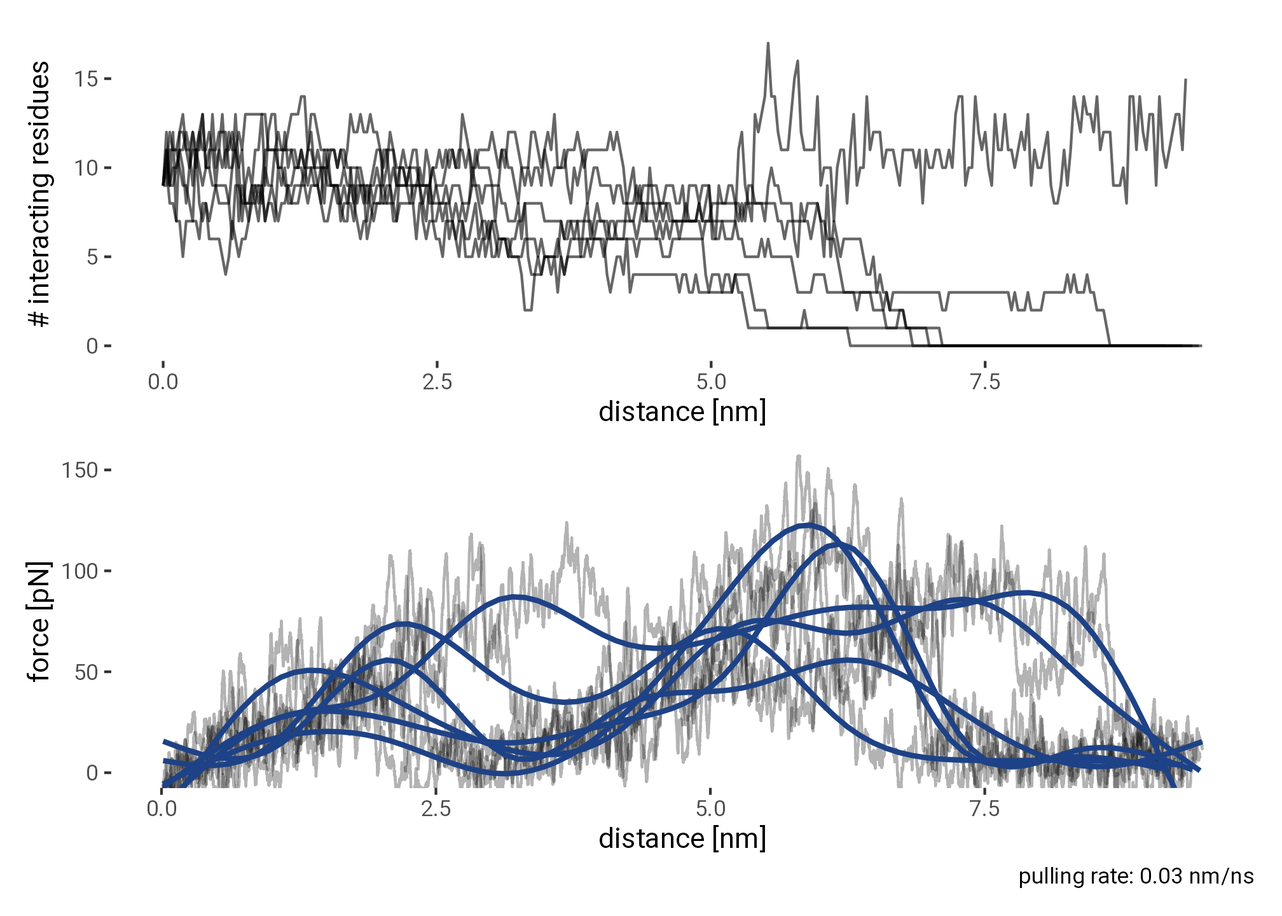
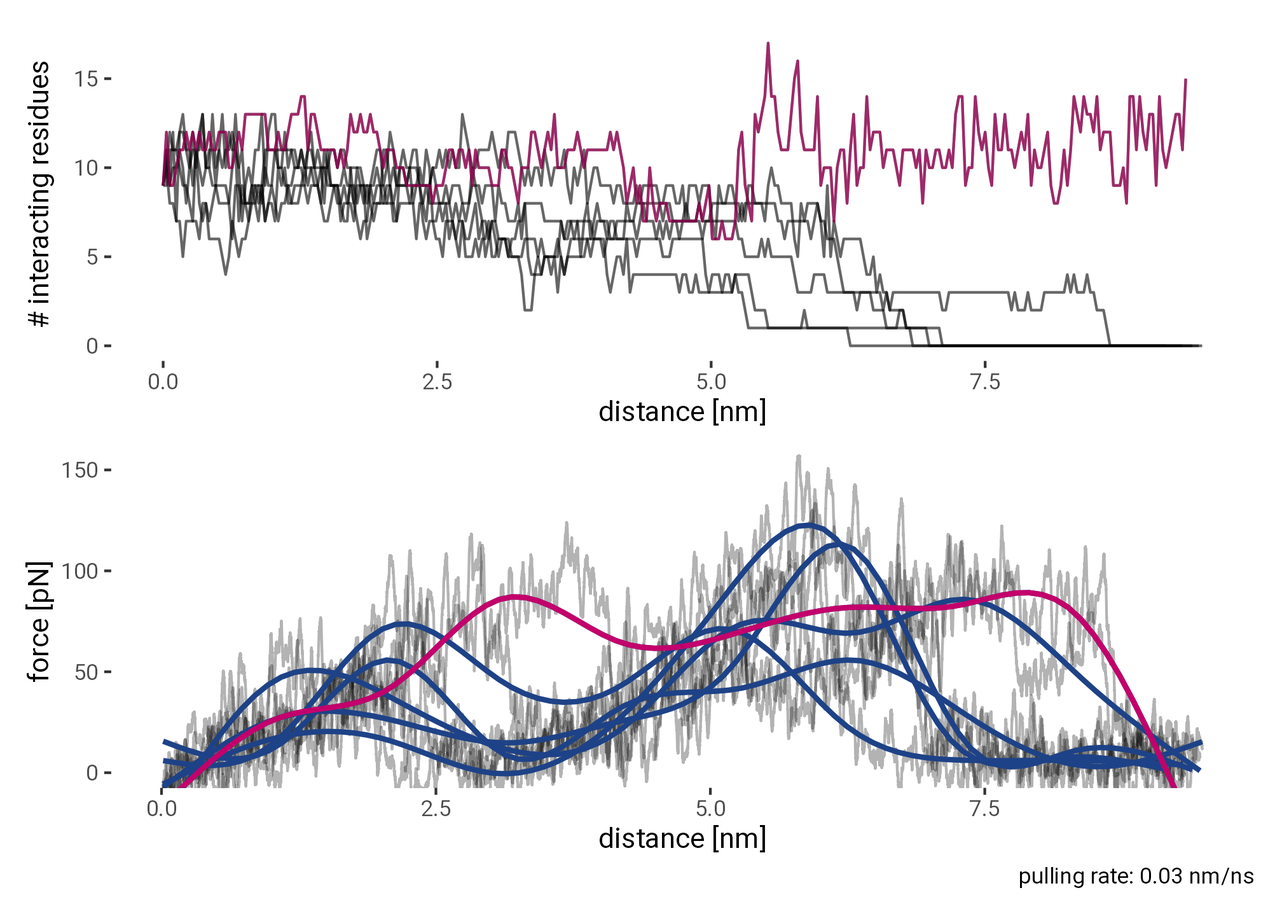
update figures and fix typos

diff --git a/index.html b/index.html
@@ -9,7 +9,7 @@
 <meta name="author" content="Jannik Buhr">
 <meta name="author" content="Florian Franz">
 <meta name="author" content="Frauke Gräter">
-<meta name="dcterms.date" content="2022-06-23">
+<meta name="dcterms.date" content="2022-06-24">
 <meta name="keywords" content="molecular dynamics, Talin, Focal Adhesion, Mechanosensing">
 
 <title>Intrinsically disordered region of Talin’s FERM domain functions as an initial PIP2 recognition site</title>
@@ -219,7 +219,7 @@ div.csl-indent {
     <div>
     <div class="quarto-title-meta-heading">Published</div>
     <div class="quarto-title-meta-contents">
-      <p class="date">June 23, 2022</p>
+      <p class="date">June 24, 2022</p>
     </div>
   </div>
     
@@ -264,13 +264,13 @@ Tip
 <h1>Introduction</h1>
 <p>It is critical for cells to mechanically sense their surroundings at cell adhesion sites for a multitude of biological processes. Contact with the extracellular matrix and surrounding cells regulates growth, differentiation, motility and even apoptosis <span class="citation" data-cites="vogelLocalForceGeometry2006 oakesStressingLimitsFocal2014 schillerMechanosensitivityCompositionalDynamics2013 miroshnikovaAdhesionForcesCortical2018">(<a href="#ref-vogelLocalForceGeometry2006" role="doc-biblioref">1</a>–<a href="#ref-miroshnikovaAdhesionForcesCortical2018" role="doc-biblioref">4</a>)</span>. The multiprotein focal adhesion complex is responsible for translating between biochemical and mechanical signals, where both directions, outside–in and inside–out activation, are being investigated <span class="citation" data-cites="thamilselvanPressureActivatesColon2004 pelletierActivationStateIntegrin1995">(<a href="#ref-thamilselvanPressureActivatesColon2004" role="doc-biblioref">5</a>, <a href="#ref-pelletierActivationStateIntegrin1995" role="doc-biblioref">6</a>)</span>.</p>
 <p>At the center of the focal adhesion complex sits the adaptor protein talin, which dynamically unfolds and refolds under force <span class="citation" data-cites="yaoMechanicalResponseTalin2016">(<a href="#ref-yaoMechanicalResponseTalin2016" role="doc-biblioref">7</a>)</span>. A schematic of Talin can be seen in <a href="#fig-tln-schema-long">Figure&nbsp;1 (a)</a>. Through interaction with integrin tails (dark green) <span class="citation" data-cites="tadokoroTalinBindingIntegrin2003">(<a href="#ref-tadokoroTalinBindingIntegrin2003" role="doc-biblioref">8</a>)</span>, which in turn interact with collagen fibers via their heads, it links the extracellular matrix to the intracellular cytoskeleton by directly interacting with actin. Talin also features specific interactions with the membrane. Their formation, mechanical stability and role in mechanosensing remain to be fully resolved.</p>
-<p>Talin features an N-terminal FERM domain (F for 4.1 protein, E for ezrin, R for radixin and M for moesin), which is composed of subdomains F0 to F3 and provides the link to the cystosolic side of the plasma membrane <span class="citation" data-cites="chishtiFERMDomainUnique1998">(<a href="#ref-chishtiFERMDomainUnique1998" role="doc-biblioref">9</a>)</span>. It does so via a conserved binding motif for phosphatidylinositol 4,5-bisphosphate (PIP<sub>2</sub>), which is enriched at active focal adhesion sites <span class="citation" data-cites="maniFERMDomainPhosphoinositide2011 dasMolecularMechanotransductionPathway2015 songNovelMembranedependentSwitch2012a">(<a href="#ref-maniFERMDomainPhosphoinositide2011" role="doc-biblioref">10</a>–<a href="#ref-songNovelMembranedependentSwitch2012a" role="doc-biblioref">12</a>)</span>. The main PIP<sub>2</sub> binding sites are located in F2 and F3 (highlighted as red spheres in <a href="#fig-tln-schema-long">Figure&nbsp;1 (a)</a>). Notably, the Talin1 FERM domain differs from other FERM proteins through the addition of the F0 subdomain, which is connected to F1 via a charged interface, as well as an insertion in F1, a flexible loop with helical propensity and basic residues <span class="citation" data-cites="goultStructureDoubleUbiquitinlike2010">(<a href="#ref-goultStructureDoubleUbiquitinlike2010" role="doc-biblioref">13</a>)</span>.</p>
+<p>Talin features an N-terminal FERM domain (F for 4.1 protein, E for ezrin, R for radixin and M for moesin), which is composed of the subdomains F0 to F3 and provides a link to the cystosolic side of the plasma membrane <span class="citation" data-cites="chishtiFERMDomainUnique1998">(<a href="#ref-chishtiFERMDomainUnique1998" role="doc-biblioref">9</a>)</span>. It does so via a conserved binding motif for phosphatidylinositol 4,5-bisphosphate (PIP<sub>2</sub>), which is enriched at active focal adhesion sites <span class="citation" data-cites="maniFERMDomainPhosphoinositide2011 dasMolecularMechanotransductionPathway2015 songNovelMembranedependentSwitch2012a">(<a href="#ref-maniFERMDomainPhosphoinositide2011" role="doc-biblioref">10</a>–<a href="#ref-songNovelMembranedependentSwitch2012a" role="doc-biblioref">12</a>)</span>. The main PIP<sub>2</sub> binding sites are located in F2 and F3 (highlighted as red spheres in <a href="#fig-tln-schema-long">Figure&nbsp;1 (a)</a>). Notably, the Talin1 FERM domain differs from other FERM proteins through the addition of the F0 subdomain, which is connected to F1 via a charged interface, as well as an insertion in F1, a flexible loop with helical propensity and basic residues <span class="citation" data-cites="goultStructureDoubleUbiquitinlike2010">(<a href="#ref-goultStructureDoubleUbiquitinlike2010" role="doc-biblioref">13</a>)</span>.</p>
 <p>Additionally, Talin’s FERM domain exists in an extended conformation, as opposed to the cloverleaf-like conformation of other FERM proteins <span class="citation" data-cites="elliottStructureTalinHead2010">(<a href="#ref-elliottStructureTalinHead2010" role="doc-biblioref">14</a>)</span>. F3 also has a binding site for <span class="math inline">\beta</span>-integrin tails <span class="citation" data-cites="calderwoodTalinHeadDomain1999">(<a href="#ref-calderwoodTalinHeadDomain1999" role="doc-biblioref">15</a>)</span> and is partly responsible for the enrichment of PIP<sub>2</sub> at the membrane through a binding site for PIPKI<span class="math inline">\gamma</span> <span class="citation" data-cites="calderwoodTalinsKindlinsPartners2013">(<a href="#ref-calderwoodTalinsKindlinsPartners2013" role="doc-biblioref">16</a>)</span>. A second integrin binding site is located with the rod domain 11 (R11) <span class="citation" data-cites="horwitzInteractionPlasmaMembrane1986">(<a href="#ref-horwitzInteractionPlasmaMembrane1986" role="doc-biblioref">17</a>)</span>. Talin interacts with the cytoskeleton through actin binding sites (F2-F3, R4-R8, R13-DH) <span class="citation" data-cites="mccannLWEQModuleConserved1997">(<a href="#ref-mccannLWEQModuleConserved1997" role="doc-biblioref">18</a>)</span>. The review by Klapholz et al. <span class="citation" data-cites="klapholzTalinMasterIntegrin2017">(<a href="#ref-klapholzTalinMasterIntegrin2017" role="doc-biblioref">19</a>)</span> provides an excellent overview of the many interaction sites of talin and its central role in the focal adhesion complex.</p>
-<p>The mechanistic role of the disordered F1 loop in the many aspects of Talin function remains elusive. Its overall positive charge renders it a prime candidate as a PIP<sub>2</sub> binding site. However, previous studies identified an only minor role of the loop in PIP<sub>2</sub> binding compared to F2-F3 <span class="citation" data-cites="chinthalapudiInteractionTalinCell2018a saltelNewPIP22009">(<a href="#ref-chinthalapudiInteractionTalinCell2018a" role="doc-biblioref">20</a>, <a href="#ref-saltelNewPIP22009" role="doc-biblioref">21</a>)</span>. On the other hand, the F1 loop contributes to talin-mediated integrin activation <span class="citation" data-cites="goultStructureDoubleUbiquitinlike2010">(<a href="#ref-goultStructureDoubleUbiquitinlike2010" role="doc-biblioref">13</a>)</span>.</p>
+<p>The mechanistic role of the disordered F1 loop in the many aspects of Talin function remains elusive. Its overall positive charge renders it a prime candidate as a PIP<sub>2</sub> binding site. However, previous studies only identified a minor role of the loop in PIP<sub>2</sub> binding compared to F2-F3 <span class="citation" data-cites="chinthalapudiInteractionTalinCell2018a saltelNewPIP22009">(<a href="#ref-chinthalapudiInteractionTalinCell2018a" role="doc-biblioref">20</a>, <a href="#ref-saltelNewPIP22009" role="doc-biblioref">21</a>)</span>. On the other hand, the F1 loop has been shown to contribute to talin-mediated integrin activation <span class="citation" data-cites="goultStructureDoubleUbiquitinlike2010">(<a href="#ref-goultStructureDoubleUbiquitinlike2010" role="doc-biblioref">13</a>)</span>.</p>
 <!-- TODO: paragraph on FERM-PIP2 at focal adhesions, -->
 <!-- multiple binding sites, several pip2s critial for stability of FAK, -->
 <!-- allows opening of autoinhibited FAK -->
-<p>It was previously shown that F3 can interact with R9, which impedes integrin activation <span class="citation" data-cites="bannoSubcellularLocalizationTalin2012">(<a href="#ref-bannoSubcellularLocalizationTalin2012" role="doc-biblioref">22</a>)</span>. However, in a recently determined cryo-electron microscopy structure of autoinhibited Talin1, Dedden et al. <span class="citation" data-cites="deddenArchitectureTalin1Reveals2019a">(<a href="#ref-deddenArchitectureTalin1Reveals2019a" role="doc-biblioref">23</a>)</span> showed that the rod domains R9 and R12 shield the established PIP<sub>2</sub> binding surface and the integrin binding site in F3 (see <a href="#fig-tln-schema-autoinhib">Figure&nbsp;1 (b)</a>, <a href="#fig-tln-align-autoinhib">Figure&nbsp;1 (c)</a>). This beckons the question how this autoinhibition can be resolved. Song at al. <span class="citation" data-cites="songNovelMembranedependentSwitch2012a">(<a href="#ref-songNovelMembranedependentSwitch2012a" role="doc-biblioref">12</a>)</span> previously investigated a fragment of talin consisting of F2-F3 and an inhibiting rod segment and suggested a pull-push mechanism, whereby negatively charged PIP<sub>2</sub> attracts its positively charged binding surface on F2-F3 and simultaneously repels the negatively charged surface of the inhibitive rod segment. However, this still leaves open the question of how talin can establish a first contact with the membrane and remain within a sufficient proximity for this effect to kick in.</p>
+<p>It was previously shown that F3 can interact with R9, which impedes integrin activation <span class="citation" data-cites="bannoSubcellularLocalizationTalin2012">(<a href="#ref-bannoSubcellularLocalizationTalin2012" role="doc-biblioref">22</a>)</span>. Furthermore, in a recently determined cryo-electron microscopy structure of autoinhibited Talin1, Dedden et al. <span class="citation" data-cites="deddenArchitectureTalin1Reveals2019a">(<a href="#ref-deddenArchitectureTalin1Reveals2019a" role="doc-biblioref">23</a>)</span> showed that the rod domains R9 and R12 shield the established PIP<sub>2</sub> binding surface and the integrin binding site in F3 (see <a href="#fig-tln-schema-autoinhib">Figure&nbsp;1 (b)</a>, <a href="#fig-tln-align-autoinhib">Figure&nbsp;1 (c)</a>). This beckons the question how this autoinhibition can be resolved. Song at al. <span class="citation" data-cites="songNovelMembranedependentSwitch2012a">(<a href="#ref-songNovelMembranedependentSwitch2012a" role="doc-biblioref">12</a>)</span> previously investigated a fragment of talin consisting of F2-F3 and an inhibiting rod segment and suggested a pull-push mechanism, whereby negatively charged PIP<sub>2</sub> attracts its positively charged binding surface on F2-F3 and simultaneously repels the negatively charged surface of the inhibitive rod segment. However, this still leaves open the question of how talin can establish a first contact with the membrane and remain within a sufficient proximity for this effect to kick in.</p>
 <div class="quarto-layout-panel">
 <figure class="figure">
 <div class="quarto-layout-row quarto-layout-valign-top">
@@ -301,7 +301,7 @@ Tip
 </div>
 </div>
 </div>
-<p></p><figcaption aria-hidden="true" class="figure-caption">Figure 1: A schematic overview of Talin and our simulation setup. <strong>a)</strong> A schematic rendering of full-length Talin over a POPC membrane enriched with PIP<sub>2</sub> in the upper leaflet. The subdomains under scrutiny in this publication, namely F0-F3, which comprise the N-terminal FERM domain (or talin head) are highlighted in pastel colors (green, cyan, yellow, magenta). The two major PIP<sub>2</sub> binding sites in F2-F3 are marked with red spheres. An integrin binding site also resides in this area. Klapholz et al. <span class="citation" data-cites="klapholzTalinMasterIntegrin2017">(<a href="#ref-klapholzTalinMasterIntegrin2017" role="doc-biblioref">19</a>)</span> provide an excellent review of Talin’s central role in the focal adhesion complex and list further binding sites. The talin rod segments (or talin tail) are numbered R1 to R13. Note, that under physiological conditions with talin experiencing force from bound actin the angle between the FERM domain and the talin rod would be more akin to 30° as opposed to the linear structure used here for illustrative purposes. Tails of an integrin <span class="math inline">\alpha</span> and <span class="math inline">\beta</span> heterodimer reaching through the lipid bilayer are represented in green. <strong>b)</strong> A schematic rendering of the autoinhibited structure of Talin as crystallized by Dedden et al. <span class="citation" data-cites="deddenArchitectureTalin1Reveals2019a">(<a href="#ref-deddenArchitectureTalin1Reveals2019a" role="doc-biblioref">23</a>)</span> in combination with a cartoon representation in <strong>c)</strong>. The completed FERM structure by Elliott et al. <span class="citation" data-cites="elliottStructureTalinHead2010">(<a href="#ref-elliottStructureTalinHead2010" role="doc-biblioref">14</a>)</span>, with our addition of the modelled F1 loop, is fitted to the autoinhibited structure, as the latter does not include F0-F1 due to their flexibility. The complete FERM structure can be explored interactively in the context of our simulation system in <a href="#sec-system">Section&nbsp;7.1</a>. The main PIP<sub>2</sub>-binding sites in F2-F3 are occluded by rod domain 12 Additionally, R9 covers up the integrin binding site.</figcaption><p></p>
+<p></p><figcaption aria-hidden="true" class="figure-caption">Figure 1: A schematic overview of Talin and our simulation setup. <strong>a)</strong> A schematic rendering of full-length Talin over a POPC membrane enriched with PIP<sub>2</sub> in the upper leaflet. The subdomains under scrutiny in this publication, namely F0-F3, which comprise the N-terminal FERM domain (or talin head) are highlighted in pastel colors (green, cyan, yellow, magenta). The two major PIP<sub>2</sub> binding sites in F2-F3 are marked with red spheres. An integrin binding site also resides in this area. Klapholz et al. <span class="citation" data-cites="klapholzTalinMasterIntegrin2017">(<a href="#ref-klapholzTalinMasterIntegrin2017" role="doc-biblioref">19</a>)</span> provide an excellent review of Talin’s central role in the focal adhesion complex and list further binding sites. The talin rod segments (or talin tail) are numbered R1 to R13. Note that under physiological conditions, with talin experiencing force from bound actin, the angle between the FERM domain and the talin rod would be more akin to 30° as opposed to the linear structure shown here for illustrative purposes. Tails of an integrin <span class="math inline">\alpha</span> and <span class="math inline">\beta</span> heterodimer reaching through the lipid bilayer are represented in green. <strong>b)</strong> A schematic rendering of the autoinhibited structure of Talin as crystallized by Dedden et al. <span class="citation" data-cites="deddenArchitectureTalin1Reveals2019a">(<a href="#ref-deddenArchitectureTalin1Reveals2019a" role="doc-biblioref">23</a>)</span> in combination with a cartoon representation in <strong>c)</strong>. The completed FERM structure by Elliott et al. <span class="citation" data-cites="elliottStructureTalinHead2010">(<a href="#ref-elliottStructureTalinHead2010" role="doc-biblioref">14</a>)</span>, with our addition of the modelled F1 loop, is fitted to the autoinhibited structure, as the latter does not include F0-F1 due to their flexibility. The complete FERM structure can be explored interactively in the context of our simulation system in <a href="#sec-system">Section&nbsp;7.1</a>. The main PIP<sub>2</sub>-binding sites in F2-F3 are occluded by rod domain 12 Additionally, R9 covers up the integrin binding site.</figcaption><p></p>
 </figure>
 </div>
 <p>Here we test the hypothesis that the flexible F1 loop inserted into Talin’s FERM domain serves as an additional PIP<sub>2</sub> interaction site that is readily accessible to PIP<sub>2</sub> even in Talin’s autoinhibited conformation and further mechanically stabilizes Talin’s interaction with the membrane. To this end, we modelled the loop, which due to its high flexibility, is not included in crystal structures of the FERM domain, such as PDB-ID 3IVF by Elliot et al. <span class="citation" data-cites="elliottStructureTalinHead2010">(<a href="#ref-elliottStructureTalinHead2010" role="doc-biblioref">14</a>)</span>.</p>
@@ -313,20 +313,17 @@ Tip
 <h1>Materials and Methods</h1>
 <section id="molecular-dynamics-with-gromacs" class="level2">
 <h2 class="anchored" data-anchor-id="molecular-dynamics-with-gromacs">Molecular dynamics with GROMACS</h2>
-<!-- TODO: Add reference scripts for supplementary materials. -->
 <p>Molecular dynamics simulations where performed with GROMACS <span class="citation" data-cites="berendsenGROMACSMessagepassingParallel1995 abrahamGROMACSHighPerformance2015">(<a href="#ref-berendsenGROMACSMessagepassingParallel1995" role="doc-biblioref">26</a>, <a href="#ref-abrahamGROMACSHighPerformance2015" role="doc-biblioref">27</a>)</span> version 2020.03 <span class="citation" data-cites="lindahlGROMACS2020Source2020">(<a href="#ref-lindahlGROMACS2020Source2020" role="doc-biblioref">28</a>)</span>. A crystal structure of the Talin FERM domain by Elliot et al. <span class="citation" data-cites="elliottStructureTalinHead2010">(<a href="#ref-elliottStructureTalinHead2010" role="doc-biblioref">14</a>)</span> with the PDB-ID 3IVF was used as the basis of all simulations.</p>
 <p>The missing F1 domain loop between residues L133 and W144 was modeled using MODELLER <span class="citation" data-cites="marti-renomComparativeProteinStructure2000 webbComparativeProteinStructure2016">(<a href="#ref-marti-renomComparativeProteinStructure2000" role="doc-biblioref">29</a>, <a href="#ref-webbComparativeProteinStructure2016" role="doc-biblioref">30</a>)</span> via the interface to Chimera <span class="citation" data-cites="pettersenUCSFChimeraVisualization2004">(<a href="#ref-pettersenUCSFChimeraVisualization2004" role="doc-biblioref">31</a>)</span>, followed by equilibration with GROMACS. The resulting conformation (see <a href="#sec-system">Section&nbsp;7.1</a>) was compared to an NMR structure of the F1 domain (PDB-ID 2KC2) by Goult et al. <span class="citation" data-cites="goultStructureDoubleUbiquitinlike2010">(<a href="#ref-goultStructureDoubleUbiquitinlike2010" role="doc-biblioref">13</a>)</span>.</p>
-<p>The missing residue M1 was also added. The missing residues I399 and L400 where not modeled, leaving us with with a continuous sequence from residue 1 to 398. Simulations where performed with the CHARM36 force field. Topologies, including the membrane, where generated with the CHARM-GUI web app <span class="citation" data-cites="brooksCHARMMBiomolecularSimulation2009 joCHARMMGUIWebbasedGraphical2008 leeCHARMMGUIInputGenerator2016">(<a href="#ref-brooksCHARMMBiomolecularSimulation2009" role="doc-biblioref">32</a>–<a href="#ref-leeCHARMMGUIInputGenerator2016" role="doc-biblioref">34</a>)</span> and GROMACS tools. All simulations used the TIP3P water model and where neutralized with 0.15 mol/L of NaCl A 6-step equilibration was performed after gradient decent energy minimization while gradually relieving restraints on protein and membrane atoms Production runs use a timestep of 2 fs, a Verlet cut-off scheme for Van-der-Waals interactions and the Particle Mesh Ewald (PME) method for long-range electrostatics NTP-ensembles where achieved by Nosé-Hoover temperature coupling <span class="citation" data-cites="hooverCanonicalDynamicsEquilibrium1985 noseUnifiedFormulationConstant1984">(<a href="#ref-hooverCanonicalDynamicsEquilibrium1985" role="doc-biblioref">35</a>, <a href="#ref-noseUnifiedFormulationConstant1984" role="doc-biblioref">36</a>)</span> and Parinello-Rahman pressure coupling <span class="citation" data-cites="parrinelloPolymorphicTransitionsSingle1981">(<a href="#ref-parrinelloPolymorphicTransitionsSingle1981" role="doc-biblioref">37</a>)</span>. An example <code>.mdp</code>-file can be found in the supplementary materials at <a href="#sec-prod-mdp">Section&nbsp;7.2.1</a>.</p>
+<p>The missing residue M1 was also added. The missing residues I399 and L400 where not modeled, leaving us with with a continuous sequence from residue 1 to 398. Simulations where performed with the CHARM36 force field. Topologies, including the membrane, where generated with the CHARM-GUI web app <span class="citation" data-cites="brooksCHARMMBiomolecularSimulation2009 joCHARMMGUIWebbasedGraphical2008 leeCHARMMGUIInputGenerator2016">(<a href="#ref-brooksCHARMMBiomolecularSimulation2009" role="doc-biblioref">32</a>–<a href="#ref-leeCHARMMGUIInputGenerator2016" role="doc-biblioref">34</a>)</span> and GROMACS tools. All simulations used the TIP3P water model and where neutralized with 0.15 mol/L of NaCl A 6-step equilibration was performed after gradient decent energy minimization while gradually relieving restraints on protein and membrane atoms Production runs use a timestep of 2 fs, a Verlet cut-off scheme for Van-der-Waals interactions and the Particle Mesh Ewald (PME) method for long-range electrostatics. NTP-ensembles were achieved by Nosé-Hoover temperature coupling <span class="citation" data-cites="hooverCanonicalDynamicsEquilibrium1985 noseUnifiedFormulationConstant1984">(<a href="#ref-hooverCanonicalDynamicsEquilibrium1985" role="doc-biblioref">35</a>, <a href="#ref-noseUnifiedFormulationConstant1984" role="doc-biblioref">36</a>)</span> and Parinello-Rahman pressure coupling <span class="citation" data-cites="parrinelloPolymorphicTransitionsSingle1981">(<a href="#ref-parrinelloPolymorphicTransitionsSingle1981" role="doc-biblioref">37</a>)</span>. An example <code>.mdp</code>-file can be found in the supplementary materials in <a href="#sec-prod-mdp">Section&nbsp;7.2.1</a>.</p>
 <p>The initial equilibrium simulation of the completed FERM domain was run for 75 ns. Subsequently, the root mean squared fluctuation (RMSF) was calculated with GROMACS tools.</p>
 <p>The F0F1 FERM sub domains (residues 1 to 197) were simulated to evaluate protein-membrane association using a rotational sampling approach. This entailed placing the protein 1.5 nm away from a 1-palmitoyl-2-oleoyl-glycero-3-phosphocholine (POPC) membrane in a total of 60 orientations spanning a rotation of 360 degrees. 6 replicates of each orientation where run for 200&nbsp;ns each. However, due to a hardware failure, 6 of these 360 runs are only 50 to 150&nbsp;ns long. Of the 119 lipids in the upper leaflet of the POPC membrane, 12 lipids were replaced with PIP<sub>2</sub>, which results in a physiological concentration of 10% PIP<sub>2</sub>.</p>
-<p>From this rotational sampling, we selected representative conformations with high protein-membrane interaction as the basis of 6 equilibrium simulations of the complete FERM domain over a POPC membrane with 26 PIP<sub>2</sub> lipids out of a total of 273 lipids in the upper leaflet. Each simulation ran for 400&nbsp;ns. The initial conformations for perpendicular pulling simulations of the F0F1 subdomains to gauge interaction strength where also chose from the rotational sampling set.</p>
-<p>To compare the effects of PIP<sub>2</sub> on the dynamics, a system containing only 1&nbsp;%&nbsp;PIP<sub>2</sub> (3 PIP<sub>2</sub> molecules in 273 lipids) was created from the enriched system by programmatically exchanging lipid head groups via a python script. The enriched and non-enriched systems where then subjected to force-probe MD simulations.</p>
+<p>From this rotational sampling, we selected representative conformations with loop-membrane interactions as the basis of 6 equilibrium simulations of the complete FERM domain over a POPC membrane with 26 PIP<sub>2</sub> lipids out of a total of 273 lipids in the upper leaflet. Each simulation ran for 400&nbsp;ns. The initial conformations for perpendicular pulling simulations of the F0F1 subdomains to gauge interaction strength were also chose from the rotational sampling set.</p>
 </section>
 <section id="automation-data-analysis-and-availability" class="level2">
 <h2 class="anchored" data-anchor-id="automation-data-analysis-and-availability">Automation, Data Analysis and Availability</h2>
 <p>Setup scripts written in bash are available for all simulations shown in this work. Plots were generated with R using ggplot2 <span class="citation" data-cites="ggplot">(<a href="#ref-ggplot" role="doc-biblioref">38</a>)</span>. Interactive structure representations are embedded using Mol* <span class="citation" data-cites="molstar">(<a href="#ref-molstar" role="doc-biblioref">39</a>)</span>. Schematic visualizations were rendered with blender <span class="citation" data-cites="blender">(<a href="#ref-blender" role="doc-biblioref">40</a>)</span> and VMD <span class="citation" data-cites="vmd">(<a href="#ref-vmd" role="doc-biblioref">41</a>)</span>. Files relevant to this paper that are too big to be uploaded to this repository, such as trajectories and blender files, will be uploaded to a separate location.</p>
 <p>This paper and the matching poster were generated with <a href="https://quarto.org/">quarto</a> <span class="citation" data-cites="quarto">(<a href="#ref-quarto" role="doc-biblioref">42</a>)</span> and Rmarkdown <span class="citation" data-cites="rmarkdown2018 knitr rbetterposter">(<a href="#ref-rmarkdown2018" role="doc-biblioref">43</a>–<a href="#ref-rbetterposter" role="doc-biblioref">45</a>)</span>.</p>
-<!-- TODO: upload trajectories -->
 </section>
 </section>
 <section id="results" class="level1">
@@ -415,13 +412,13 @@ Tip
 </div>
 </div>
 </div>
-<p></p><figcaption aria-hidden="true" class="figure-caption">Figure 2: Rotational sampling of F0-F1. <strong>a-c)</strong> Snapshots from a simulation involving F0-F1 over a POPC membrane containing 10% PIP<sub>2</sub> in the upper leaflet. POPC is not rendered and PIP<sub>2</sub> is shown as light grey stick models that turn thicker for those molecules that are currently interacting with residues of the protein. Those residues are then shown as dark blue stick models. Once the F1 loop has made contact with the membrane it can act as an anchor and facilitate further contacts, ultimately pulling the protein onto the membrane. In order to test if this interaction of the loop with the membrane is just the result of a biased starting position with the loop already pointing downwards, we sampled 60 different starting positions, rotated equally spaced around the horizontal axis, with 6 replicates each. <strong>d)</strong> A heatmap summarizing 358 simulations from the rotational sampling. Unfortunately the number is not 360 because 2 trajectories where lost due to a hardware failure. Each simulation is 200&nbsp;ns long. Across all angles (y-axis) we see that with very few exceptions the F1 loop (dark blue region on the x-axis colorbar) is almost always involved in interactions 0° equates to the loop pointing downwards towards the membrane. The heatmap color represents the mean number of PIP<sub>2</sub> molecules that are in close contact with the respective residue summarized over time and replicates for that specific angle. <strong>e)</strong> A heatmap of the time evolution of the number of PIP<sub>2</sub> molecules at the respective time and angle summarized over all residues and replicates. Angles in which the loop is already favored towards the membrane tend to make contact faster Note, that this trend is not simply because angles favoring the loop would have been already closer to the membrane. The protein was rotated in such a way that the respective closest residue had the same distance to the membrane for the 0° and the 180° starting positions. <strong>f)</strong> A time evolution of the simulations shows the number of interacting residues gradually increasing as the anchored protein gets pulled closer towards the membrane by the forming interactions. Only in 10 simulations (out of 269 simulations that had at least one contact) did the protein leave the membrane again within the 200&nbsp;ns long timeframe. This never occurred after more than 3 residues had already made contact. <strong>g)</strong> The Mean interaction scores of the individual residues across all simulations that made contact with the membrane. Color represents the isoelectric point of the amino acid in isolation (blue = basic, magenta = acidic). A number of very prominent lysines can be observed, as well as a cluster of residues belonging to the F1 loop. The most prominent residues are highlighted in <strong>h)</strong>.</figcaption><p></p>
+<p></p><figcaption aria-hidden="true" class="figure-caption">Figure 2: Rotational sampling of F0-F1. <strong>a-c)</strong> Snapshots from a simulation involving F0-F1 over a POPC membrane containing 10% PIP<sub>2</sub> in the upper leaflet. POPC is not rendered and PIP<sub>2</sub> is shown as light grey stick models that turn thicker for those molecules that are currently interacting with residues of the protein. Those residues are then shown as dark blue stick models. Once the F1 loop has made contact with the membrane it can act as an anchor and facilitate further contacts, ultimately pulling the protein onto the membrane. In order to test if this interaction of the loop with the membrane is just the result of a biased starting position with the loop already pointing downwards, we sampled 60 different starting positions, rotated equally spaced around the horizontal axis, with 6 replicates each. <strong>d)</strong> A heatmap summarizing 358 simulations from the rotational sampling. Unfortunately the number is not 360 because 2 trajectories where lost due to a hardware failure. Each simulation is 200&nbsp;ns long. Across all angles (y-axis) we see that with very few exceptions the F1 loop (dark blue region on the x-axis colorbar) is almost always involved in interactions 0° equates to the loop pointing downwards towards the membrane. The heatmap color represents the mean number of PIP<sub>2</sub> molecules that are in close contact with the respective residue summarized over time and replicates for that specific angle. <strong>e)</strong> A heatmap of the time evolution of the number of PIP<sub>2</sub> molecules at the respective time and angle summarized over all residues and replicates. Angles in which the loop is already favored towards the membrane tend to make contact faster. Note that this trend is not simply because angles favoring the loop would have been already closer to the membrane. The protein was rotated in such a way that the respective closest residue had the same distance to the membrane for the 0° and the 180° starting positions. <strong>f)</strong> A time evolution of the simulations shows the number of interacting residues gradually increasing as the anchored protein gets pulled closer towards the membrane by the forming interactions. Only in 10 simulations (out of 269 simulations that had at least one contact) did the protein leave the membrane again within the 200&nbsp;ns long timeframe. This never occurred after more than 3 residues had already made contact. <strong>g)</strong> The Mean interaction scores of the individual residues across all simulations that made contact with the membrane. Color represents the isoelectric point of the amino acid in isolation (blue = basic, magenta = acidic). A number of very prominent lysines can be observed, as well as a cluster of residues belonging to the F1 loop. The most prominent residues are highlighted in <strong>h)</strong>.</figcaption><p></p>
 </figure>
 </div>
 </section>
 <section id="the-f1-loop-can-facilitate-further-contacts" class="level2">
 <h2 class="anchored" data-anchor-id="the-f1-loop-can-facilitate-further-contacts">The F1 loop can facilitate further contacts</h2>
-<p>We chose a representative conformation from the rotational sampling as a starting point for force-probe simulations of F0-F1 perpendicular to the membrane (<a href="#fig-f0f1-vert-pull-vmd">Figure&nbsp;3 (b)</a>) to test the strength of the interaction. An exemplary render of one of the simulations can be seen in <a href="#fig-f0f1-pull-run-1">Figure&nbsp;3 (a)</a>. Pulling F0-F1 off the membrane requires peak forces of 100–120&nbsp;pN, during which the interacting residues only very gradually loose contact (<a href="#fig-f0f1-vert-pull">Figure&nbsp;3 (c)</a>). This highlights the strong anchoring capabilities of the F1 loop. As seen in <a href="#fig-f0f1-vert-pull-contacts">Figure&nbsp;3 (d)</a>, during pulling residues not belonging to the F1 loop loose contact first, while the loop stays attached. The F1 loop works in conjunction with the F0 subdomain (see <a href="#fig-f0f1-vert-pull-residues">Figure&nbsp;5 (d)</a>). Their high flexibility allows them to remain in contact with the membrane over large distances, which would allow for a spring-like re-establishing of more contacts should the force be alleviated.</p>
+<p>We chose a representative conformation from the rotational sampling as a starting point for force-probe simulations of F0-F1 perpendicular to the membrane to test the strength of the interaction (<a href="#fig-f0f1-vert-pull-vmd">Figure&nbsp;3 (b)</a>). An exemplary render of one of the simulations can be seen in <a href="#fig-f0f1-pull-run-1">Figure&nbsp;3 (a)</a>. Pulling F0-F1 off the membrane requires peak forces of 100–120&nbsp;pN, during which the interacting residues only very gradually loose contact (<a href="#fig-f0f1-vert-pull">Figure&nbsp;3 (c)</a>). This highlights the strong anchoring capabilities of the F1 loop. As seen in <a href="#fig-f0f1-vert-pull-contacts">Figure&nbsp;3 (d)</a>, during pulling residues not belonging to the F1 loop loose contact first, while the loop stays attached. The F1 loop works in conjunction with the F0 subdomain (see <a href="#fig-f0f1-vert-pull-residues">Figure&nbsp;5 (d)</a>). Their high flexibility allows them to remain in contact with the membrane over large distances, which would allow for a spring-like re-establishing of more contacts should the force be alleviated.</p>
 <div class="quarto-layout-panel">
 <figure class="figure">
 <div class="quarto-layout-row quarto-layout-valign-top">
@@ -460,10 +457,10 @@ Tip
 </div>
 </div>
 </div>
-<p></p><figcaption aria-hidden="true" class="figure-caption">Figure 3: Vertical Pulling of F0-F1. <strong>a)</strong> A representative render of one of 6 force-probe MD simulations pulling F0-F1 off the membrane. It starts from a snapshot of F0-F1 in its bound conformation taken from the rotational sampling (<a href="#fig-loop-importance">Figure&nbsp;2</a>) and gets pulled upwards from its C-terminus. The direction of force is shown in the snapshot <strong>b)</strong>. <strong>c)</strong> As F0-F1 gets pulled at a constant rate of 0.03&nbsp;nm/ns we observe the time evolution of the force (bottom panel) and the number of interacting residues (top panel). The number of interacting residues goes down very gradually, as the high flexibility of loop allows the residues to remain in contact even as the distance increases. <strong>d)</strong> The time evolution of the number of contacs for resides belonging to the F1 loop and other residues shows how initially other residues loose contact until eventually the loop looses contacts as well. The remaining non-loop contacts belong to the N-terminus of F0 (for which <strong>b</strong> is also a representative snapshot).</figcaption><p></p>
+<p></p><figcaption aria-hidden="true" class="figure-caption">Figure 3: Vertical Pulling of F0-F1. <strong>a)</strong> A representative render of one of 6 force-probe MD simulations pulling F0-F1 off the membrane. It starts from a snapshot of F0-F1 in its bound conformation taken from the rotational sampling (<a href="#fig-loop-importance">Figure&nbsp;2</a>) and gets pulled upwards from its C-terminus. The direction of force is shown in the snapshot <strong>b)</strong>. <strong>c)</strong> As F0-F1 gets pulled at a constant rate of 0.03&nbsp;nm/ns we observe the time evolution of the force (bottom panel) and the number of interacting residues (top panel). The number of interacting residues goes down very gradually, as the high flexibility of loop allows the residues to remain in contact even as the distance increases. Replicat 4 is highlighted in magenta, as in this run the interactions were so so strong that a total of 3 molecules of PIP<sub>2</sub> were pulled out of the membrane (1 by F0 and 2 by the F1 loop). A snapshot of this can be seen in <a href="#fig-f0f1-vert-pull-run4">Figure&nbsp;5 (e)</a>. <strong>d)</strong> The time evolution of the number of contacs for resides belonging to the F1 loop and other residues shows how initially other residues loose contact until eventually the loop looses contacts as well. Lighter shades of blue correspond to a later time in the simulation. Black dots mark the starting positions. The longest remaining non-loop contacts belong to the N-terminus of F0 (for which <strong>b</strong> is also a representative snapshot), with the exception of replicate 4, as explained in <strong>c</strong>.</figcaption><p></p>
 </figure>
 </div>
-<p>Simulations with the full-length FERM domain show that with the loop as an initial membrane contact, known PIP<sub>2</sub> binding sites can also be established as well (<a href="#fig-ferm-ri-npip">Figure&nbsp;4 (a)</a>, <a href="#fig-ferm-memb-system">Figure&nbsp;4 (b)</a>). The highlighted residues include K272 of F2 and K316, K324, E342, and K343 of F3, which have been shown to be crucial for the membrane interaction of Talin and subsequent integrin activation by Chinthalapudi et al. <span class="citation" data-cites="chinthalapudiInteractionTalinCell2018a">(<a href="#ref-chinthalapudiInteractionTalinCell2018a" role="doc-biblioref">20</a>)</span>.</p>
+<p>Simulations with the full-length FERM domain show that with the loop as an initial membrane contact, known PIP<sub>2</sub> binding sites can also be established (<a href="#fig-ferm-ri-npip">Figure&nbsp;4 (a)</a>, <a href="#fig-ferm-memb-system">Figure&nbsp;4 (b)</a>). The highlighted residues include K272 of F2 and K316, K324, E342, and K343 of F3, which have been shown to be crucial for the membrane interaction of Talin and subsequent integrin activation by Chinthalapudi et al. <span class="citation" data-cites="chinthalapudiInteractionTalinCell2018a">(<a href="#ref-chinthalapudiInteractionTalinCell2018a" role="doc-biblioref">20</a>)</span>.</p>
 <div class="quarto-layout-panel">
 <figure class="figure">
 <div class="quarto-layout-row quarto-layout-valign-top">
@@ -506,7 +503,6 @@ Tip
 </section>
 <section id="supplementary-material" class="level1">
 <h1>Supplementary Material</h1>
-<!-- TODO: -->
 <div class="quarto-layout-panel">
 <figure class="figure">
 <div class="quarto-layout-row quarto-layout-valign-top">
@@ -541,6 +537,16 @@ Tip
 <figure class="figure">
 <p><img src="./assets/results/plots/f0f1-vert-pull-residues-1.png" class="img-fluid figure-img" data-ref-parent="fig-suppl"></p>
 <p></p><figcaption aria-hidden="true" class="figure-caption">(d) &nbsp;</figcaption><p></p>
+</figure>
+</div>
+</div>
+</div>
+<div class="quarto-layout-row quarto-layout-valign-top">
+<div class="quarto-layout-cell quarto-layout-cell-subref" style="flex-basis: 100.0%;justify-content: center;">
+<div id="fig-f0f1-vert-pull-run4" class="quarto-figure quarto-figure-center anchored">
+<figure class="figure">
+<p><img src="./assets/vmd/f0f1-pulling/snapshot-run4.png" class="img-fluid figure-img" data-ref-parent="fig-suppl"></p>
+<p></p><figcaption aria-hidden="true" class="figure-caption">(e) &nbsp;</figcaption><p></p>
 </figure>
 </div>
 </div>
@@ -729,7 +735,7 @@ Tip
 </table>
 </div>
 </div>
-<p></p><figcaption aria-hidden="true" class="figure-caption">Figure 5: <strong>a)</strong> RMSF [nm] of the c<span class="math inline">\alpha</span> of individual residues in an equilibrium simulation shown by coloring the backbone The loop is highly flexible. <strong>b)</strong> A density plot of distances between PIP<sub>2</sub> and the protein residues to decide on a cutoff for defining interactions A distance of 0.25 nm was chosen. <strong>d)</strong> A closer look at the residues involved in the interaction during pulling reveals the instrumental role of both the F1 loop as well as the F0 subdomain in keeping the connection to the membrane.</figcaption><p></p>
+<p></p><figcaption aria-hidden="true" class="figure-caption">Figure 5: <strong>a)</strong> RMSF [nm] of the c<span class="math inline">\alpha</span> of individual residues in an equilibrium simulation shown by coloring the backbone The loop is highly flexible. <strong>b)</strong> A density plot of distances between PIP<sub>2</sub> and the protein residues to decide on a cutoff for defining interactions A distance of 0.25 nm was chosen. <strong>d)</strong> A closer look at the residues involved in the interaction during pulling reveals the instrumental role of both the F1 loop as well as the F0 subdomain in keeping the connection to the membrane. <strong>e)</strong> Run 4 of the vertical pulling of F0F1. Interactions between the protein and PIP<sub>2</sub> were so strong that a total of 3 molecules of PIP<sub>2</sub> (gray) were pulled out of the membrane (1 by F0 (green) and 2 by the F1 loop (blue)).</figcaption><p></p>
 </figure>
 </div>
 <section id="sec-system" class="level2">
